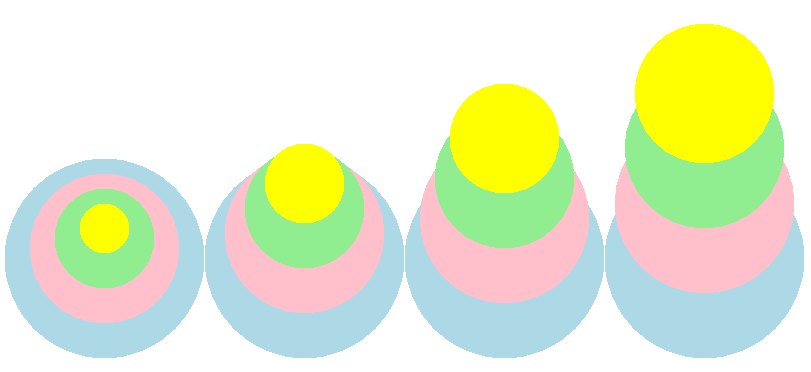
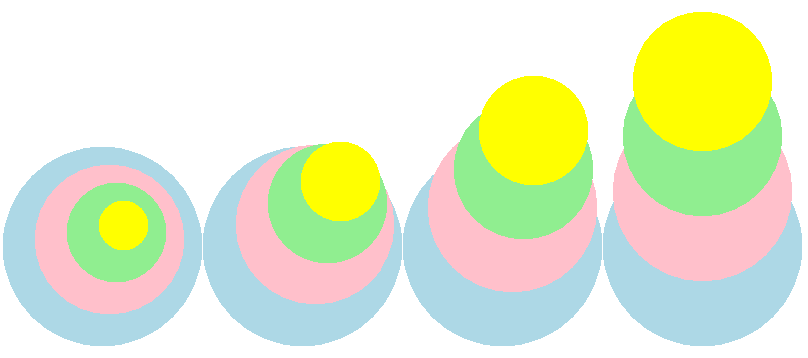
up

diff --git a/docs/turtle/files/dots3.py b/docs/turtle/files/dots3.py
@@ -10,11 +10,15 @@ def draw_dot(t, centre=(0, 0), size=20, color="blue"):
     t.dot(size, color)
 
 
-def draw_dot_stack(t, x, y, yadd, size_0, size_dec, colors):
+def draw_dot_stack(t, centre, pos_step, angle, size, size_step, colors):
+    # based on number of colours
     for i in range(len(colors)):
-        centre_xy = (x, y + yadd*i)
-        size = size_0 - size_dec*i
-        draw_dot(t, centre=centre_xy, size=size, color=colors[i])
+        t.pu()
+        t.goto(centre)
+        t.seth(angle)
+        t.fd(i*pos_step)
+        dot_centre = t.pos()
+        draw_dot(t, centre=dot_centre, size=size - i*size_step, color=colors[i])
 
 
 s = turtle.Screen()
@@ -23,14 +27,14 @@ s.title("Grid")
 s.setup(width=850, height=600, startx=0, starty=0)
 
 t = turtle.Turtle()
-t.speed(5)
+t.speed(0)
 t.ht()
 
 colors = ["light blue", "pink", "light green", "yellow"]
 
-draw_dot_stack(t,x=-300, y=-80, yadd=10, size_0=200, size_dec=50, colors=colors)
-draw_dot_stack(t,x=-100, y=-80, yadd=25, size_0=200, size_dec=40, colors=colors)
-draw_dot_stack(t,x=100, y=-80, yadd=40, size_0=200, size_dec=30, colors=colors)
-draw_dot_stack(t,x=300, y=-80, yadd=55, size_0=200, size_dec=20, colors=colors)
+draw_dot_stack(t, centre=(-300, -80), pos_step=10, angle=45, size=200, size_step=50, colors=colors)
+draw_dot_stack(t, centre=(-100, -80), pos_step=25, angle=60, size=200, size_step=40, colors=colors)
+draw_dot_stack(t, centre=(100, -80), pos_step=40, angle=75, size=200, size_step=30, colors=colors)
+draw_dot_stack(t, centre=(300, -80), pos_step=55, angle=90, size=200, size_step=20, colors=colors)
 
 s.exitonclick()

diff --git a/docs/turtle/files/dots3 copy.py b/docs/turtle/files/dots3 copy.py
@@ -1,0 +1,36 @@
+"""draw_dot
+"""
+import turtle
+
+
+def draw_dot(t, centre=(0, 0), size=20, color="blue"):
+    t.pu()
+    t.goto(centre)
+    t.pd()
+    t.dot(size, color)
+
+
+def draw_dot_stack(t, x, y, yadd, size_0, size_dec, colors):
+    for i in range(len(colors)):
+        centre_xy = (x, y + yadd*i)
+        size = size_0 - size_dec*i
+        draw_dot(t, centre=centre_xy, size=size, color=colors[i])
+
+
+s = turtle.Screen()
+s.bgcolor("white")
+s.title("Grid")
+s.setup(width=850, height=600, startx=0, starty=0)
+
+t = turtle.Turtle()
+t.speed(5)
+t.ht()
+
+colors = ["light blue", "pink", "light green", "yellow"]
+
+draw_dot_stack(t,x=-300, y=-80, yadd=10, size_0=200, size_dec=50, colors=colors)
+draw_dot_stack(t,x=-100, y=-80, yadd=25, size_0=200, size_dec=40, colors=colors)
+draw_dot_stack(t,x=100, y=-80, yadd=40, size_0=200, size_dec=30, colors=colors)
+draw_dot_stack(t,x=300, y=-80, yadd=55, size_0=200, size_dec=20, colors=colors)
+
+s.exitonclick()

diff --git a/docs/turtle/turtle_dots.rst b/docs/turtle/turtle_dots.rst
@@ -16,7 +16,7 @@ Turtle Dots
     | Draw a circular dot with diameter size, using color. 
     | **size** - the dot diameter, an integer >= 1 (if given)
     | If size is not given, the maximum of pensize+4 and 2*pensize is used.
-    | **color** - a colorstring or a numeric color tuple (r,g, b,)
+    | **color** - a colorstring or a numeric color tuple (r, g, b,)
 
 ----
 
@@ -25,12 +25,12 @@ Draw_dot definition: dots at a specified location
 
 | Adding a starting position, the centre of the dot, provides some convenience:
 
-.. py:function:: draw_dot(t, centre=(0, 0), size=20, color="blue"):
+.. py:function:: draw_dot(t, centre=(0, 0), size=20, color="blue")
 
     | **t** - the turtle object to draw the rectangle
     | **centre** - the centre of the dot; default (0, 0)
     | **size** - the diameter of the dot, an integer >= 1
-    | **color** - a colorstring or a numeric color tuple (r,g, b,)
+    | **color** - a colorstring or a numeric color tuple (r, g, b,)
 
 | The ``draw_dot`` definition code is below:
 
@@ -79,7 +79,7 @@ Using the Draw_dot definition
     :alt: dot_stack_1
 
 | Make use of the ``draw_dot`` definition by drawing a dot stack of 4 dots of decreasing size.
-| The code below uses list of postions and sizes.
+| The code below uses list of positions and sizes.
 | For overlapping circles to have a common tangent on a side (that is, a line touches all the circles), if the change in the sizes (diameters), from one circle to the next, is the same, then the centres of the circles will be the same distance apart from one circle to the next.
 | ``centres = [(0, -100), (0, -50), (0, 0), (0, 50)]``
 | Notice how the y values of the centres increase by the same amount from one point to the next.
@@ -172,13 +172,77 @@ Using the Draw_dot definition
 
 ----
 
+draw_dot_stack definition
+--------------------------------------------------
+
+| The draw_dot_stack definition :
+
+.. py:function:: draw_dot_stack(t, centre, pos_step, angle, size, size_step, colors)
+
+    | **t** - the turtle object to draw the rectangle
+    | **centre** - the centre of the dot
+    | **size_step** - the length to move in the directon given by angle, from centre
+    | **angle** - the angle to draw the stack    
+    | **size** - the diameter of the dot    
+    | **size_step** - the length to reduce the diameter by for successive dots
+    | **colors** - a list of colorstring or numeric color tuples (r, g, b,)
+
+
+| The ``draw_dot_stack`` definition code is below:
+
+.. admonition:: Code Completion
+
+    .. tab-set::
+
+        .. tab-item:: Q
+
+            | Complete the code for the draw_dot_stack definition by replacing the "XXX"s.
+
+            .. code-block:: python
+
+                import turtle
+
+
+                def draw_dot_stack(t, centre, pos_step, angle, size, size_step, colors):
+                    # based on number of colours
+                    for i in range(len(XXX)):
+                        t.pu()
+                        t.goto(XXX)
+                        t.seth(XXX)
+                        t.fd(i*XXX)
+                        dot_centre = t.pos()
+                        draw_dot(t, centre=dot_centre, size=size - i*XXX, color=colors[XXX])
+
+
+        .. tab-item:: Ans
+
+            | Completed code for the draw_dot definition.
+
+            .. code-block:: python
+
+                import turtle
+
+
+                def draw_dot_stack(t, centre, pos_step, angle, size, size_step, colors):
+                    # based on number of colours
+                    for i in range(len(colors)):
+                        t.pu()
+                        t.goto(centre)
+                        t.seth(angle)
+                        t.fd(i*pos_step)
+                        dot_centre = t.pos()
+                        draw_dot(t, centre=dot_centre, size=size - i*size_step, color=colors[i])
+
+
+----
+
+
 Exploring dot stacks further
 -----------------------------
 
 .. admonition:: Task
 
-    1. Explore drawing dot stacks using lists to store multiple values for colors and positions and sizes. 
-    Write a definition to iterate through the various values to draw stacks of dots of different sizes and colours.
+    1. Write a definition draw dot stacks.
 
     .. image:: images/dot_stacks.png
         :scale: 75 %
@@ -206,11 +270,15 @@ Exploring dot stacks further
                             t.dot(size, color)
 
 
-                        def draw_dot_stack(t, x, y, yadd, size_0, size_dec, colors):
+                        def draw_dot_stack(t, centre, pos_step, angle, size, size_step, colors):
+                            # based on number of colours
                             for i in range(len(colors)):
-                                centre_xy = (x, y + yadd*i)
-                                size = size_0 - size_dec*i
-                                draw_dot(t, centre=centre_xy, size=size, color=colors[i])
+                                t.pu()
+                                t.goto(centre)
+                                t.seth(angle)
+                                t.fd(i*pos_step)
+                                dot_centre = t.pos()
+                                draw_dot(t, centre=dot_centre, size=size - i*size_step, color=colors[i])
 
 
                         s = turtle.Screen()
@@ -219,20 +287,19 @@ Exploring dot stacks further
                         s.setup(width=850, height=600, startx=0, starty=0)
 
                         t = turtle.Turtle()
-                        t.speed(5)
+                        t.speed(0)
                         t.ht()
 
                         colors = ["light blue", "pink", "light green", "yellow"]
 
-                        draw_dot_stack(t,x=-300, y=-80, yadd=10, size_0=200, size_dec=50, colors=colors)
-                        draw_dot_stack(t,x=-100, y=-80, yadd=25, size_0=200, size_dec=40, colors=colors)
-                        draw_dot_stack(t,x=100, y=-80, yadd=40, size_0=200, size_dec=30, colors=colors)
-                        draw_dot_stack(t,x=300, y=-80, yadd=55, size_0=200, size_dec=20, colors=colors)
+                        draw_dot_stack(t, centre=(-300, -80), pos_step=10, angle=45, size=200, size_step=50, colors=colors)
+                        draw_dot_stack(t, centre=(-100, -80), pos_step=25, angle=60, size=200, size_step=40, colors=colors)
+                        draw_dot_stack(t, centre=(100, -80), pos_step=40, angle=75, size=200, size_step=30, colors=colors)
+                        draw_dot_stack(t, centre=(300, -80), pos_step=55, angle=90, size=200, size_step=20, colors=colors)
 
                         s.exitonclick()
 
 ----
-
 
 Icecream cones from dot stacks
 --------------------------------------------------
@@ -242,7 +309,7 @@ Icecream cones from dot stacks
     :align: center
     :alt: dot_stack_1
 
-| Make use of the ``draw_dot`` definition to approximate a cone shape by drawing a series of circles decreasing in size as they more further from the centre of the largest circle.
+| Make use of the ``draw_dot_stack`` definition to approximate a cone shape by drawing a series of circles decreasing in size as they more further from the centre of the largest circle.
 
 
 .. admonition:: Task
@@ -251,40 +318,17 @@ Icecream cones from dot stacks
 
         .. tab-item:: Q
 
-            | Complete the skeleton code to draw a a series of 3 cones which approximate a cone shape as in the image above.
+            | Write code to draw a series of 3 cones which approximate a cone shape as in the image above.
 
             .. code-block:: python
 
                 import turtle
 
 
-                # def draw_dot...
-
-
-                # def draw_dot_stack...
-
-
-                # s = turtle.Screen() ...
-
-
-                # t = turtle.Turtle()
-
-
-                # colors = ...
-
-                for i in range(200, 5, -XXX):
-                    draw_dot_stack(t, centre=(-200, -100), angle=90, size=i, color=colors[0])
-                for i in range(200, 5, -XXX):
-                    draw_dot_stack(t, centre=(0, -100), angle=90, size=i, color=colors[1])
-                for i in range(200, 5, -XXX):
-                    draw_dot_stack(t, centre=(200, -100), angle=90, size=i, color=colors[2])
-
-                s.update()
-                s.exitonclick()
 
         .. tab-item:: Ans
 
-            | Completed code to draw a a series of 3 cones which approximate a cone shape as in the image above.
+            | Completed code to draw a series of 3 cones which approximate a cone shape as in the image above.
 
             .. code-block:: python
 
@@ -298,14 +342,17 @@ Icecream cones from dot stacks
                     t.dot(size, color)
 
 
-                def draw_dot_stack(t, centre, angle, size, color):
-                    t.pu()
-                    t.goto(centre)
-                    t.seth(angle)
-                    t.fd(size)
-                    dot_centre = t.pos()
-                    draw_dot(t, centre=dot_centre, size=size, color=color)
-
+                def draw_dot_stack(t, centre, angle, size, step, colors):
+                    col_i = 0
+                    for i in range(size, 0, -step):
+                        t.pu()
+                        t.goto(centre)
+                        t.seth(angle)
+                        t.fd(i)
+                        dot_centre = t.pos()
+                        draw_dot(t, centre=dot_centre, size=i, color=colors[col_i])
+                        col_i = (col_i + 1) % len(colors)
+                        print(col_i, end=" ")
 
                 s = turtle.Screen()
                 s.bgcolor("white")
@@ -320,16 +367,13 @@ Icecream cones from dot stacks
 
                 colors = ["light blue", "pink", "light green", "yellow", "MediumPurple1", "bisque"]
 
-                for i in range(200, 5, -50):
-                    draw_dot_stack(t, centre=(-200, -100), angle=90, size=i, color=colors[0])
-                for i in range(200, 5, -30):
-                    draw_dot_stack(t, centre=(0, -100), angle=90, size=i, color=colors[1])
-                for i in range(200, 5, -10):
-                    draw_dot_stack(t, centre=(200, -100), angle=90, size=i, color=colors[2])
+                draw_dot_stack(t, centre=(-200, -100), angle=90, size=200, step = 50, colors=colors[0:2])
+                draw_dot_stack(t, centre=(0, -100), angle=90, size=200, step = 30, colors=colors[2:5])
+                draw_dot_stack(t, centre=(200, -100), angle=90, size=200, step = 10, colors=colors)
 
                 s.update()
                 s.exitonclick()
-                
+
 ----
 
 Using the Draw_dot: hexagonal array
